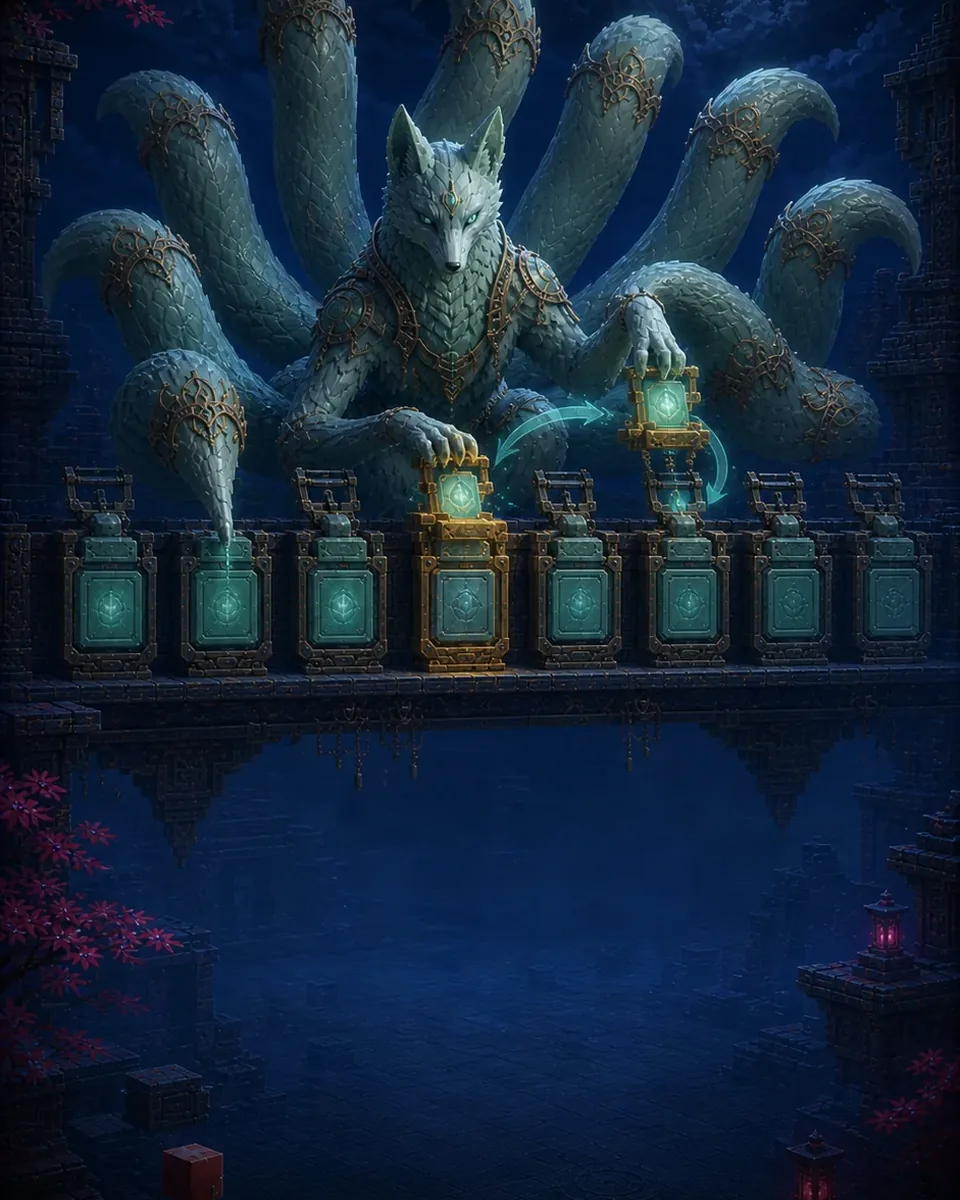
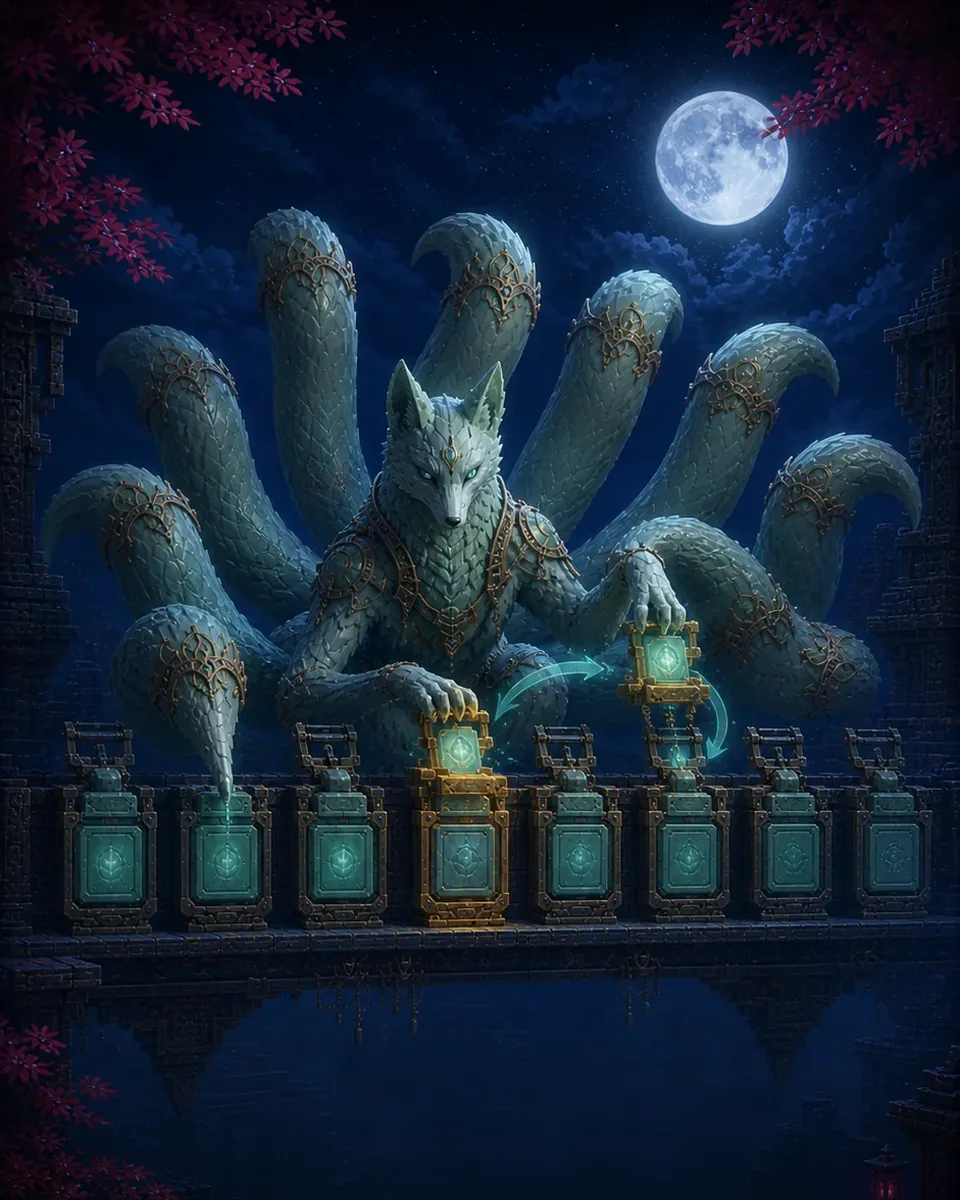
release: prepare v1.7.35 boss and leaderboard fixes

diff --git a/cf-workers/api.js b/cf-workers/api.js
@@ -2080,11 +2080,12 @@ export default {
 
         const actualReward = rewardInserted ? reward : 0;
 
-        // 更新玩家金币与答题统计：仅首次胜利发奖时才加金币与累加统计。
-        // 同步客户端权威的等级/段位/连胜字段（加上界防刷），供跨设备登录恢复。
-        // 失败/重复胜利不累加统计，彻底杜绝刷答题统计（受速率限制 + INSERT OR IGNORE 双重保护）。
-        if (rewardInserted) {
-          // 防刷上界：等级≤100，段位≤8，经验/段位分/连胜合理上限
+        // 金币与答题数只在首次胜利时累加；重复挑战不重复发奖。
+        // 但符合奖励资格的重打仍可能提升等级、段位积分和连击，因此赛季快照必须更新，
+        // 否则客户端显示的新积分会在排行榜和跨设备登录时回退。
+        const hasProgressionSnapshot = [player_level, exp, rank_tier, rank_points, current_streak, max_streak]
+          .every(value => value !== undefined && value !== null);
+        if (rewardInserted || (seasonId === CURRENT_DUNGEON_SEASON && winFlag && hasProgressionSnapshot)) {
           const lv = Math.max(1, Math.min(100, parseInt(player_level) || 1));
           const expVal = Math.max(0, Math.min(999999, parseInt(exp) || 0));
           const rt = Math.max(1, Math.min(8, parseInt(rank_tier) || 1));
@@ -2092,19 +2093,27 @@ export default {
           const cs = Math.max(0, Math.min(9999, parseInt(current_streak) || 0));
           const ms = Math.max(0, Math.min(9999, parseInt(max_streak) || 0));
           if (seasonId === CURRENT_DUNGEON_SEASON) {
-            // Shared wallet is permanent. All progression/ranking fields live only in the season
-            // table so an older client cannot merge the new season into archived standings.
-            await db.prepare(`UPDATE dungeon_players SET gold=gold+?, updated_at=datetime('now') WHERE device_hash=?`)
-              .bind(actualReward, device_hash).run();
+            if (rewardInserted) {
+              await db.prepare(`UPDATE dungeon_players SET gold=gold+?, updated_at=datetime('now') WHERE device_hash=?`)
+                .bind(actualReward, device_hash).run();
+            }
+            const answeredDelta = rewardInserted ? answered : 0;
+            const correctDelta = rewardInserted ? correct : 0;
             await db.prepare(`INSERT INTO dungeon_season_stats (device_hash, season_id, player_level, exp, rank_tier, rank_points, total_answered, total_correct, current_streak, max_streak)
               VALUES (?,?,?,?,?,?,?,?,?,?)
-              ON CONFLICT(device_hash, season_id) DO UPDATE SET player_level=excluded.player_level, exp=excluded.exp,
-                rank_tier=excluded.rank_tier, rank_points=excluded.rank_points,
+              ON CONFLICT(device_hash, season_id) DO UPDATE SET
+                exp=CASE
+                  WHEN excluded.player_level > dungeon_season_stats.player_level THEN excluded.exp
+                  WHEN excluded.player_level = dungeon_season_stats.player_level THEN MAX(dungeon_season_stats.exp, excluded.exp)
+                  ELSE dungeon_season_stats.exp END,
+                player_level=MAX(dungeon_season_stats.player_level, excluded.player_level),
+                rank_tier=MAX(dungeon_season_stats.rank_tier, excluded.rank_tier),
+                rank_points=MAX(dungeon_season_stats.rank_points, excluded.rank_points),
                 total_answered=dungeon_season_stats.total_answered+excluded.total_answered,
                 total_correct=dungeon_season_stats.total_correct+excluded.total_correct,
                 current_streak=excluded.current_streak, max_streak=MAX(dungeon_season_stats.max_streak, excluded.max_streak)`)
-              .bind(device_hash, seasonId, lv, expVal, rt, rp, answered, correct, cs, ms).run();
-          } else {
+              .bind(device_hash, seasonId, lv, expVal, rt, rp, answeredDelta, correctDelta, cs, ms).run();
+          } else if (rewardInserted) {
             await db.prepare(`UPDATE dungeon_players SET gold = gold + ?, total_answered = total_answered + ?, total_correct = total_correct + ?,
                               player_level=?, exp=?, rank_tier=?, rank_points=?, current_streak=?, max_streak=?, updated_at=datetime('now') WHERE device_hash=?`)
               .bind(actualReward, answered, correct, lv, expVal, rt, rp, cs, ms, device_hash).run();
@@ -2153,6 +2162,10 @@ export default {
         const cc = url.searchParams.get('class_code') || '';
         const dh = request.headers.get('X-Device-Hash') || url.searchParams.get('device_hash') || '';
         const VALID_TYPES = ['power', 'streak', 'conquest', 'badge', 'wins', 'ss_count', 'progress', 'warrior'];
+        const VALID_SCOPES = ['class', 'global'];
+        if (!VALID_SCOPES.includes(scope)) {
+          return new Response(JSON.stringify({ error: '无效的排行榜范围' }), { status: 400, headers: cors });
+        }
         if (!VALID_TYPES.includes(type)) {
           return new Response(JSON.stringify({ error: '无效的排行榜类型' }), { status: 400, headers: cors });
         }
@@ -2177,14 +2190,14 @@ export default {
 
         if (seasonId === CURRENT_DUNGEON_SEASON && (type === 'wins' || type === 'warrior')) {
           const selectValue = type === 'warrior'
-            ? "(COUNT(CASE WHEN a.is_win = 1 THEN 1 END) * 10 + COUNT(CASE WHEN a.rating = 'SS' THEN 1 END) * 30 + COUNT(CASE WHEN a.rating = 'S' THEN 1 END) * 15) as value"
+            ? "(COUNT(CASE WHEN a.is_win = 1 THEN 1 END) * 10 + COUNT(CASE WHEN a.is_win = 1 AND a.rating = 'SS' THEN 1 END) * 30 + COUNT(CASE WHEN a.is_win = 1 AND a.rating = 'S' THEN 1 END) * 15) as value"
             : 'COUNT(*) as value';
           const whereExtra = type === 'wins' ? 'AND a.is_win = 1' : '';
           query = `SELECT a.device_hash, p.display_name, p.school, COALESCE(s.rank_tier,1) rank_tier, ${selectValue}
                    FROM dungeon_season_attempts a JOIN dungeon_players p ON a.device_hash=p.device_hash
                    LEFT JOIN dungeon_season_stats s ON s.device_hash=p.device_hash AND s.season_id=?
                    WHERE a.season_id=? AND p.status='active' ${classFilter} ${whereExtra}
-                   GROUP BY a.device_hash ORDER BY value DESC LIMIT 50`;
+                   GROUP BY a.device_hash ORDER BY value DESC, p.display_name COLLATE NOCASE ASC, a.device_hash ASC LIMIT 50`;
           params = (scope === 'class' && cc) ? [seasonId, seasonId, cc] : [seasonId, seasonId];
         } else if (seasonId === CURRENT_DUNGEON_SEASON && (type === 'progress' || type === 'conquest' || type === 'ss_count')) {
           const predicate = type === 'ss_count' ? "dp.best_rating='SS'" : "dp.status='cleared'";
@@ -2192,7 +2205,7 @@ export default {
                    FROM dungeon_season_progress dp JOIN dungeon_players p ON dp.device_hash=p.device_hash
                    LEFT JOIN dungeon_season_stats s ON s.device_hash=p.device_hash AND s.season_id=?
                    WHERE dp.season_id=? AND p.status='active' ${classFilter} AND ${predicate}
-                   GROUP BY dp.device_hash ORDER BY value DESC LIMIT 50`;
+                   GROUP BY dp.device_hash ORDER BY value DESC, p.display_name COLLATE NOCASE ASC, dp.device_hash ASC LIMIT 50`;
           params = (scope === 'class' && cc) ? [seasonId, seasonId, cc] : [seasonId, seasonId];
         } else if (seasonId === CURRENT_DUNGEON_SEASON) {
           const valueExpr = type === 'streak' ? 's.max_streak' : type === 'badge'
@@ -2200,7 +2213,8 @@ export default {
             : 's.rank_points';
           query = `SELECT p.device_hash, p.display_name, p.school, COALESCE(s.rank_tier,1) rank_tier, COALESCE(${valueExpr},0) value
                    FROM dungeon_season_stats s JOIN dungeon_players p ON s.device_hash=p.device_hash
-                   WHERE s.season_id=? AND p.status='active' ${classFilter} ORDER BY value DESC LIMIT 50`;
+                   WHERE s.season_id=? AND p.status='active' ${classFilter}
+                   ORDER BY value DESC, p.display_name COLLATE NOCASE ASC, s.device_hash ASC LIMIT 50`;
           const prefix = type === 'badge' ? [seasonId, seasonId] : [seasonId];
           params = (scope === 'class' && cc) ? [...prefix, cc] : prefix;
         } else if (type === 'wins' || type === 'warrior') {
@@ -2210,14 +2224,14 @@ export default {
           let whereExtra = '';
           if (type === 'wins') whereExtra = 'AND a.is_win = 1';
           const selectValue = type === 'warrior'
-            ? "(COUNT(CASE WHEN a.is_win = 1 THEN 1 END) * 10 + COUNT(CASE WHEN a.rating = 'SS' THEN 1 END) * 30 + COUNT(CASE WHEN a.rating = 'S' THEN 1 END) * 15) as value"
+            ? "(COUNT(CASE WHEN a.is_win = 1 THEN 1 END) * 10 + COUNT(CASE WHEN a.is_win = 1 AND a.rating = 'SS' THEN 1 END) * 30 + COUNT(CASE WHEN a.is_win = 1 AND a.rating = 'S' THEN 1 END) * 15) as value"
             : 'COUNT(*) as value';
           query = `SELECT a.device_hash, p.display_name, p.school, p.rank_tier, ${selectValue}
                    FROM dungeon_attempts a
                    JOIN dungeon_players p ON a.device_hash = p.device_hash
                    WHERE p.status = 'active' ${classFilter} ${whereExtra} AND a.created_at >= ?
                    GROUP BY a.device_hash
-                   ORDER BY value DESC
+                   ORDER BY value DESC, p.display_name COLLATE NOCASE ASC, a.device_hash ASC
                    LIMIT 50`;
           params = (scope === 'class' && cc) ? [cc, thirtyDaysAgo] : [thirtyDaysAgo];
         } else if (type === 'progress') {
@@ -2226,7 +2240,7 @@ export default {
                    JOIN dungeon_players p ON dp.device_hash = p.device_hash
                    WHERE p.status = 'active' ${classFilter} AND dp.status = 'cleared'
           GROUP BY dp.device_hash
-          ORDER BY value DESC
+          ORDER BY value DESC, p.display_name COLLATE NOCASE ASC, dp.device_hash ASC
           LIMIT 50`;
           params = (scope === 'class' && cc) ? [cc] : [];
         } else if (type === 'ss_count') {
@@ -2235,7 +2249,7 @@ export default {
                    JOIN dungeon_players p ON dp.device_hash = p.device_hash
                    WHERE p.status = 'active' ${classFilter} AND dp.best_rating = 'SS'
                    GROUP BY dp.device_hash
-                   ORDER BY value DESC, SUM(dp.best_score) DESC
+                   ORDER BY value DESC, SUM(dp.best_score) DESC, p.display_name COLLATE NOCASE ASC, dp.device_hash ASC
                    LIMIT 50`;
           params = (scope === 'class' && cc) ? [cc] : [];
         } else {
@@ -2260,15 +2274,24 @@ export default {
 
         const entries = await db.prepare(query).bind(...params).all();
         const sanitizeEntry = (e) => ({ display_name: e.display_name, school: e.school, rank_tier: e.rank_tier, value: e.value });
-        // Find player rank (device_hash only used internally)
+        let previousValue = null;
+        let previousRank = 0;
+        const rankedEntries = (entries.results || []).map((entry, index) => {
+          const value = Number(entry.value) || 0;
+          const rank = index > 0 && value === previousValue ? previousRank : index + 1;
+          previousValue = value;
+          previousRank = rank;
+          return { rank, ...entry };
+        });
+        // Find player rank (device_hash only used internally). Equal values share the same rank.
         let playerEntry = null;
-        if (dh && entries.results) {
-          const idx = entries.results.findIndex(e => e.device_hash === dh);
-          if (idx >= 0) playerEntry = { rank: idx + 1, ...sanitizeEntry(entries.results[idx]) };
+        if (dh) {
+          const own = rankedEntries.find(e => e.device_hash === dh);
+          if (own) playerEntry = { rank: own.rank, ...sanitizeEntry(own) };
         }
         return new Response(JSON.stringify({
           success: true, scope, type, season: seasonId,
-          entries: (entries.results || []).map((e, i) => ({ rank: i + 1, ...sanitizeEntry(e) })),
+          entries: rankedEntries.map(e => ({ rank: e.rank, ...sanitizeEntry(e) })),
           playerEntry,
         }), { headers: cors });
       }

diff --git a/cf-workers/api.leaderboard.test.ts b/cf-workers/api.leaderboard.test.ts
@@ -182,4 +182,112 @@ describe('Worker 智子试炼场排行榜', () => {
     expect(updates[0].sql).not.toMatch(/school=|gold=|player_level=|exp=|real_name=|phone=/);
     expect(updates[0].args).toEqual(['NEWCLASS', 'teacher-2', '新昵称', 'existing-device']);
   });
+
+  it('拒绝未知范围，避免错误参数静默退化成全服榜', async () => {
+    const response = await worker.fetch(
+      new Request('https://api.example.test/api/dungeon/leaderboard?scope=other&type=power&season_id=2026-season-2'),
+      { DB: makeDb() },
+      { waitUntil() {} } as any,
+    );
+
+    expect(response.status).toBe(400);
+    expect(await response.json()).toMatchObject({ error: '无效的排行榜范围' });
+  });
+
+  it('勇者榜只给胜利的 S/SS 评级加分', async () => {
+    const db = makeDb();
+    const response = await worker.fetch(
+      new Request('https://api.example.test/api/dungeon/leaderboard?scope=global&type=warrior&season_id=2026-season-2'),
+      { DB: db },
+      { waitUntil() {} } as any,
+    );
+
+    expect(response.status).toBe(200);
+    const query = db.queries.find(q => q.includes('FROM dungeon_season_attempts a')) || '';
+    expect(query).toContain("a.is_win = 1 AND a.rating = 'SS'");
+    expect(query).toContain("a.is_win = 1 AND a.rating = 'S'");
+  });
+
+  it('同分玩家使用稳定顺序并共享并列名次', async () => {
+    const queries: string[] = [];
+    const db = {
+      async exec() {},
+      prepare(sql: string) {
+        queries.push(sql);
+        return {
+          bind() { return this; },
+          async first() { return null; },
+          async run() { return { meta: { changes: 1 } }; },
+          async all() {
+            if (sql.includes('FROM dungeon_season_stats s')) {
+              return { results: [
+                { device_hash: 'a', display_name: '甲', school: 'code', rank_tier: 2, value: 100 },
+                { device_hash: 'b', display_name: '乙', school: 'star', rank_tier: 2, value: 100 },
+                { device_hash: 'c', display_name: '丙', school: 'dream', rank_tier: 2, value: 100 },
+                { device_hash: 'd', display_name: '丁', school: 'code', rank_tier: 1, value: 80 },
+              ] };
+            }
+            return { results: [] };
+          },
+        };
+      },
+    };
+    const response = await worker.fetch(
+      new Request('https://api.example.test/api/dungeon/leaderboard?scope=global&type=power&season_id=2026-season-2&device_hash=b'),
+      { DB: db },
+      { waitUntil() {} } as any,
+    );
+    const body = await response.json() as any;
+
+    expect(response.status).toBe(200);
+    expect(body.entries.map((entry: any) => entry.rank)).toEqual([1, 1, 1, 4]);
+    expect(body.playerEntry).toMatchObject({ rank: 1, display_name: '乙', value: 100 });
+    expect(queries.find(q => q.includes('FROM dungeon_season_stats s'))).toContain('p.display_name COLLATE NOCASE ASC');
+  });
+
+  it('重复挑战不再发金币，但会同步更高的赛季段位积分', async () => {
+    const statWrites: any[][] = [];
+    const db = {
+      async exec() {},
+      prepare(sql: string) {
+        let args: any[] = [];
+        return {
+          bind(...values: any[]) { args = values; return this; },
+          async first() {
+            if (sql.includes('FROM dungeon_players WHERE device_hash=? AND class_code=?')) {
+              return { device_hash: 'device-1', class_code: 'CLASS1', status: 'active' };
+            }
+            if (sql.includes('FROM rate_limits')) return null;
+            return null;
+          },
+          async run() {
+            if (sql.includes('INSERT OR IGNORE INTO dungeon_season_attempts')) return { meta: { changes: 0 } };
+            if (sql.includes('INSERT INTO dungeon_season_stats')) statWrites.push(args);
+            return { meta: { changes: 1 } };
+          },
+          async all() { return { results: [] }; },
+        };
+      },
+    };
+    const response = await worker.fetch(
+      new Request('https://api.example.test/api/dungeon/report-battle', {
+        method: 'POST',
+        headers: { 'content-type': 'application/json' },
+        body: JSON.stringify({
+          device_hash: 'device-1', class_code: 'CLASS1', season_id: '2026-season-2',
+          dungeon_id: 'dungeon-01', stage_id: 'dungeon-01-stage-01', is_win: 1,
+          rating: 'SS', questions_answered: 5, correct_count: 5,
+          player_level: 4, exp: 30, rank_tier: 2, rank_points: 180,
+          current_streak: 6, max_streak: 8,
+        }),
+      }),
+      { DB: db },
+      { waitUntil() {} } as any,
+    );
+    const body = await response.json() as any;
+
+    expect(response.status).toBe(200);
+    expect(body.gold_added).toBe(0);
+    expect(statWrites).toEqual([['device-1', '2026-season-2', 4, 30, 2, 180, 0, 0, 6, 8]]);
+  });
 });

diff --git a/src/App.tsx b/src/App.tsx
@@ -168,7 +168,7 @@ function WelcomeModal() {
 }
 
 function ChangelogModal() {
-  const VER = '1.7.34';
+  const VER = '1.7.35';
   const [show, setShow] = useState(() => localStorage.getItem('csp_changelog_seen') !== VER);
   if (!show) return null;
   const dismiss = () => { localStorage.setItem('csp_changelog_seen', VER); setShow(false); };
@@ -179,11 +179,11 @@ function ChangelogModal() {
         <div style={{ fontSize:40, marginBottom:8 }}>🎉</div>
         <h2 style={{ fontSize:18, marginBottom:12, color:'#f59e0b' }}>v{VER} 更新内容</h2>
         <div style={{ fontSize:13, color:'#334155', lineHeight:2.2, textAlign:'left', padding:'0 20px', marginBottom:20 }}>
-          <div>🏔 智子试炼场开启“山海新章”第二赛季</div>
-          <div>🏆 新赛季关卡与排行榜重新起跑，智子、金币和已购物品保留</div>
-          <div>🧭 八个副本按知识点分区，后期加入综合真题挑战</div>
-          <div>🎨 试炼场地图、战斗界面与客户端视觉全面升级</div>
-          <div>🖼 新增“山海新章”窗口皮肤，可在侧边栏直接切换</div>
+          <div>🐢 八个山海 Boss 重新取景，入口可清楚看到异兽主体</div>
+          <div>📜 Boss 名称、台词与描述统一为山海编程设定</div>
+          <div>🏆 排行榜同分并列且顺序稳定，不再刷新后乱跳</div>
+          <div>⚡ 重复挑战可同步更高段位积分、等级与连击</div>
+          <div>🛡 重复挑战仍不重复发金币，赛季和永久资产均保留</div>
         </div>
         <button onClick={dismiss} style={{
           padding:'10px 32px', fontSize:14, fontWeight:700, background:'linear-gradient(135deg, #f59e0b, #fbbf24)',

diff --git a/src-dungeon/components/screens/LeaderboardScreen.tsx b/src-dungeon/components/screens/LeaderboardScreen.tsx
@@ -58,7 +58,7 @@ export default function LeaderboardScreen() {
     { key: 'streak', label: '连击榜', icon: '⚡' },
     { key: 'progress', label: '通关榜', icon: '🗺' },
     { key: 'warrior', label: '勇者榜', icon: '🔥' },
-    { key: 'wins', label: '近30天胜场', icon: '⚔' },
+    { key: 'wins', label: '赛季首胜', icon: '⚔' },
     { key: 'ss_count', label: 'SS副本', icon: '🛡' },
   ];
 

diff --git a/scripts/prepare-dungeon-art.py b/scripts/prepare-dungeon-art.py
@@ -70,15 +70,15 @@ def process(src_rel: str, out_name: str):
     print(f"{out_name}  <- {src_rel}  ({os.path.getsize(os.path.join(OUT, out_name))//1024} KB)")
 
 def process_boss(src_rel: str, out_name: str):
-    """异兽独立大图 → 960x1200 竖版入口展示图（cover 裁 + 上下轻微压暗）"""
+    """异兽独立大图 → 960x1200 竖版入口展示图（保留画面上方的异兽主体）。"""
     src = os.path.join(SRC_BOSS, src_rel)
     im = Image.open(src).convert("RGB")
     tw, th = 960, 1200
     scale = max(tw / im.width, th / im.height)
     im = im.resize((round(im.width * scale), round(im.height * scale)), Image.LANCZOS)
-    # 宽度居中，高度从 15% 起取 1200（异兽集中在画面中上部）
+    # 这些 active 图的异兽集中在顶部；从 15% 起裁会只剩场景，入口头像看不到 Boss。
     x0 = (im.width - tw) // 2
-    y0 = min(int(im.height * 0.15), im.height - th)
+    y0 = 0
     im = im.crop((x0, y0, x0 + tw, y0 + th))
     grad = Image.new("L", (960, 1200), 0)
     d = ImageDraw.Draw(grad)
